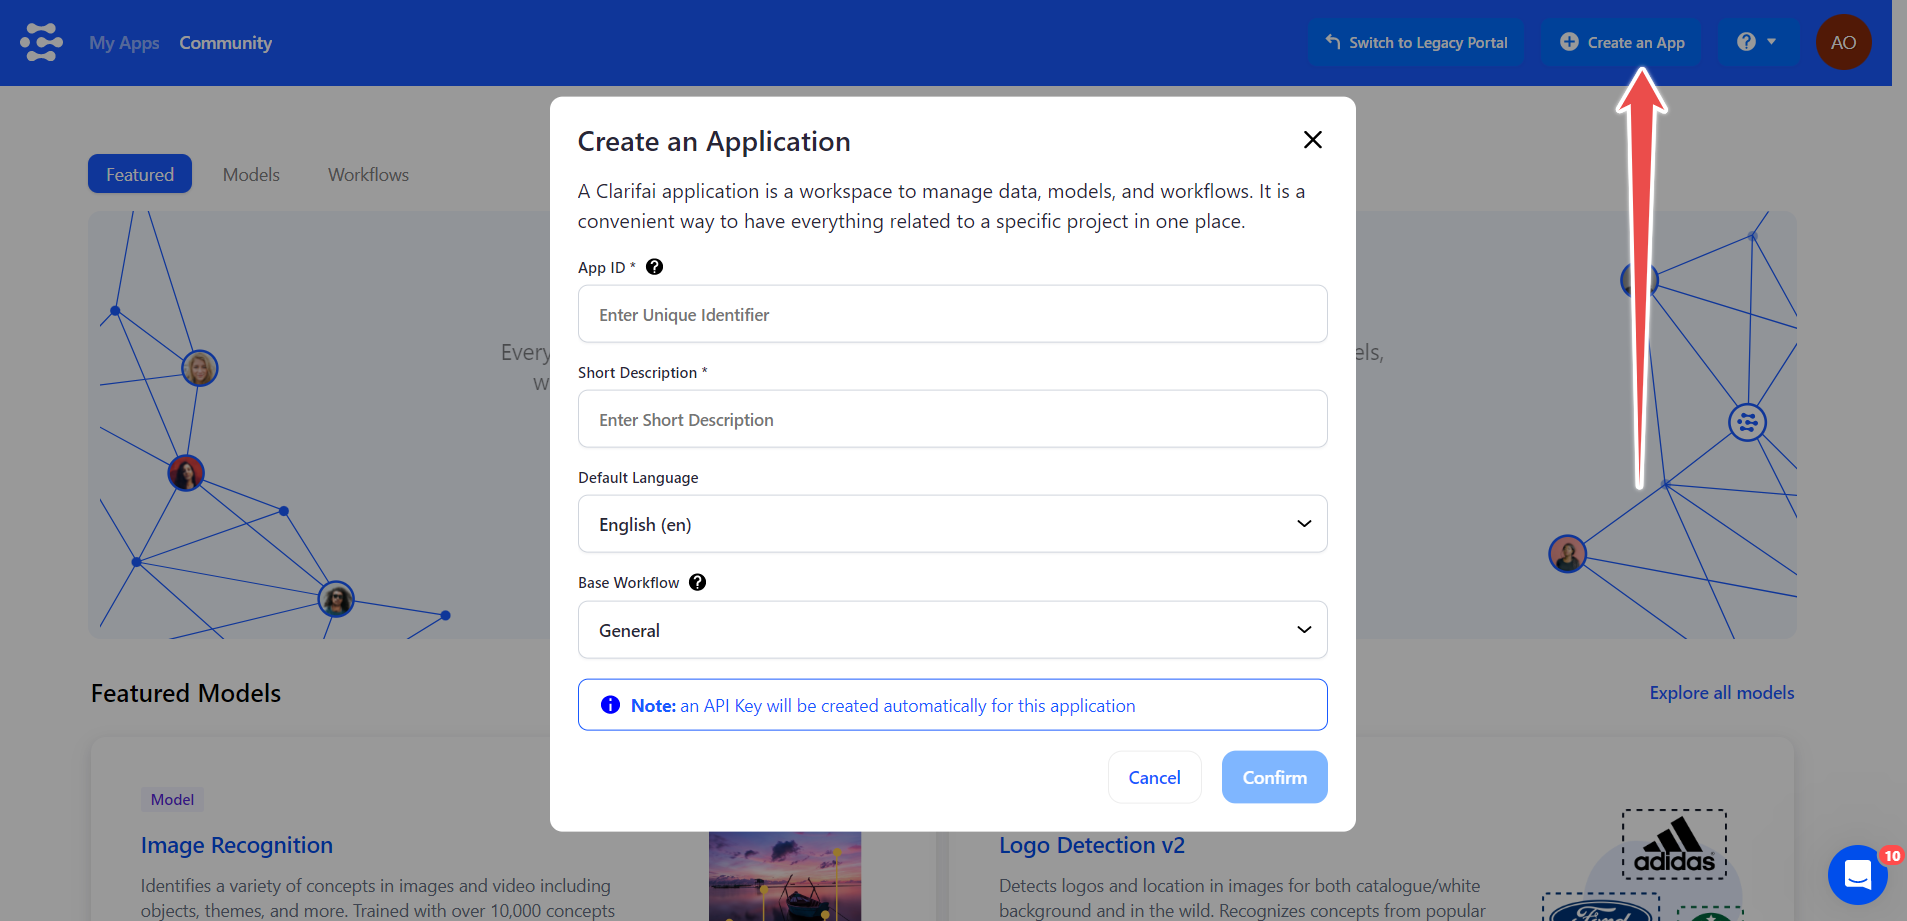
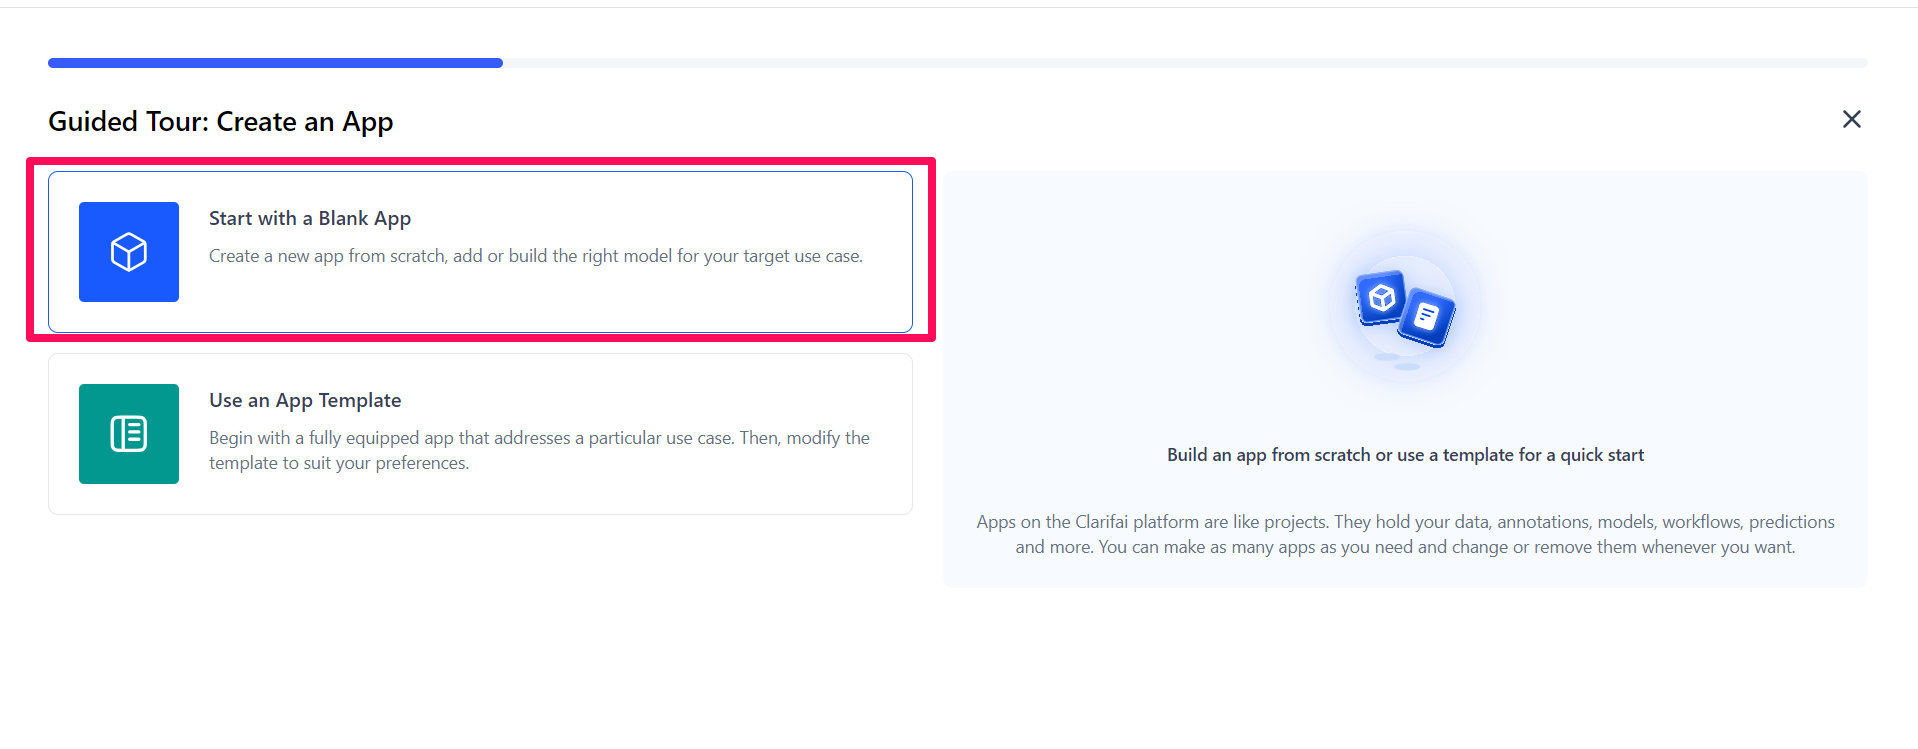
updated create application page

diff --git a/docs/clarifai-basics/applications/create-an-application.md b/docs/clarifai-basics/applications/create-an-application.md
@@ -1,44 +1,79 @@
 ---
-description: How to create a Clarifai Application
+description: Learn how to create a Clarifai App
 sidebar_position: 1
 ---
 
 # Create an Application
 
-**How to create a Clarifai application**
+**Learn how to create a Clarifai application**
 <hr />
 
-On Clarifai, [apps](https://docs.clarifai.com/clarifai-basics/applications/) act as a central repository for models, datasets, inputs and other resources and information. 
+As mentioned previously, [apps](https://docs.clarifai.com/clarifai-basics/applications/) on the Clarifai platform act as a central repository for models, datasets, inputs, and other resources. 
 
-## Create an Application on the Portal
+## Create an App on the Portal
 
-To create an application, [log in](https://clarifai.com/login) to your account and click the **Create an App** button at the upper-right section of the navigation bar.
+To create an app, [log in](https://clarifai.com/login) to your account and click the **Create** button at the upper-right section of the navigation bar.
 
-And on the small window that pops up, provide the information required to create a new application.
+![create app portal](/img/others/create-new-app-new-1.png)
+
+And on the window that pops up, select the **Start with a Blank App** option to create a new application from scratch.
+
+
+:::tip
+
+You can also select the **Use an App Template** option to [use a template](https://docs.clarifai.com/clarifai-basics/app-templates) to create a new application. 
+
+:::
 
 ![application creation window](/img/create-new-app-new.png)
 
-### ID Validation
+Next, on the window that appears, provide the information required to create a new application.
 
-Application names and other names in the Portal must follow a few rules. 
+![](/img/others/create-new-app-new-2.png)
 
-- Names must be 1 to 32 letters or numbers in length, with hyphens or underscores as separators
-- Spaces, periods, etc., are not allowed as separators
+- **App ID** — This serves as a unique identifier for your application. It’s important to choose a unique and memorable ID as it will be used for URLs and redirections.
 
+- **Short Description** — Optionally, provide a brief description that outlines the purpose or features of your app.
+
+- **Primary Input Type** — Select the primary type of inputs that will be available in your app: either images/videos or texts/documents.
+
+- **Advanced Settings** — This collapsible field allows you to choose the [base workflow](https://docs.clarifai.com/portal-guide/workflows/base-workflows/) for your app. Base workflows index your data and furnish your app with a default knowledge base. While a base workflow is automatically selected based on your primary input type, you can choose another one that best suits your specific use case.
+
+:::note ID Validation
+
+Application names and other names in the Portal must follow a few rules:
+
+- Names must be 1 to 32 letters or numbers in length, with hyphens or underscores as separators.
+- Spaces, periods, etc., are not allowed as separators.
+
+:::
+
+Lastly, click the **Create App** button at the upper-right corner of the page.
+
+<!--
 ### Default Language
-
 You can also set the default language so that you can create, train, and search concepts in your own language. Please keep in mind that pre-trained model concepts currently only work in English.
+-->
 
-## Copy Applications
+## Copy (Duplicate) Apps
 
-You can also create an application by cloning an existing application. Cloning an existing application can be a great way to start a new project, or branch an existing one. We’ve made cloning easy with a simple interface in the Portal. 
+You can also create an app by cloning an existing application. Cloning an existing application can be a great way to start a new project, or branch an existing one. We’ve made cloning easy with a simple interface in the Portal. 
 
-Go to the apps listing page and click the series of dots at the bottom-right corner of the app you want to copy its contents. Then, select the "Duplicate" option on the list that drops down. 
+After logging in to your Clarifai account, select the **My Apps** option on the navigation bar. Then, select the **Apps / Templates** option on the menu bar, and a list of your apps will populate that page. 
+
+Click the series of dots at the bottom-right corner of the app you want to copy its contents. Then, select the **Duplicate** option on the list that drops down. 
 
 ![](/img/app_duplication.png)
 
 
-## Create Applications Programmatically
+The small window that pops up lets you select the destination user or organization, along with the destination app. You can copy the app as a new one or select an existing app. Additionally, you can specify particular resources you wish to duplicate.
+
+![](/img/others/app_duplication-1.png)
+
+Lastly, click the **Confirm** button, and the copied app will be automatically created for you. 
+
+
+## Create Apps Programmatically
 
 For enterprise customers, it is also possible to generate applications programmatically. 
 

diff --git a/docs/clarifai-basics/app-templates.md b/docs/clarifai-basics/app-templates.md
@@ -36,7 +36,7 @@ We provide a variety of application templates in various categories to help you 
 
 - We're constantly expanding our library of templates, with new additions released on a regular basis. You can check [here](https://clarifai.com/explore/apps?activeToggle=Templates&page=1&perPage=24) for them. 
 
-- We’ll also introduce the ability to build your own app templates soon. 
+- We'll also introduce the ability to build your own app templates soon. 
 
 :::
 

diff --git a/docs/portal-guide/model/agent-system-operators/transform.md b/docs/portal-guide/model/agent-system-operators/transform.md
@@ -36,5 +36,3 @@ Allows you to align images using key points.
 
 This is an operator for tiling images into a fixed number of equal-sized images. 
 
-## Image-to-Image
-
